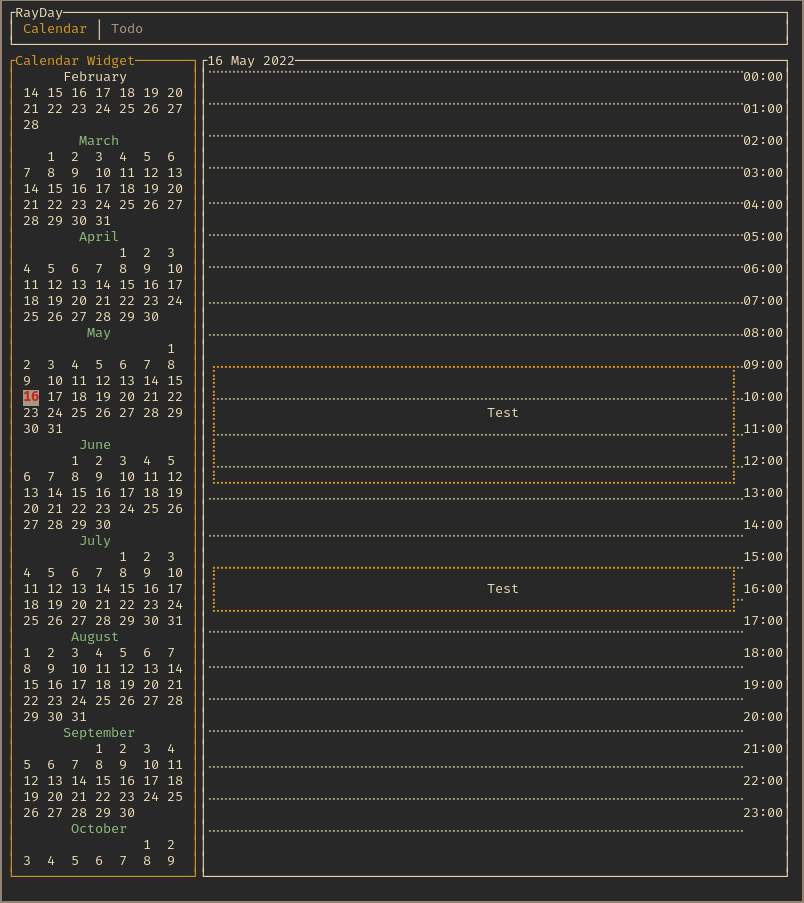
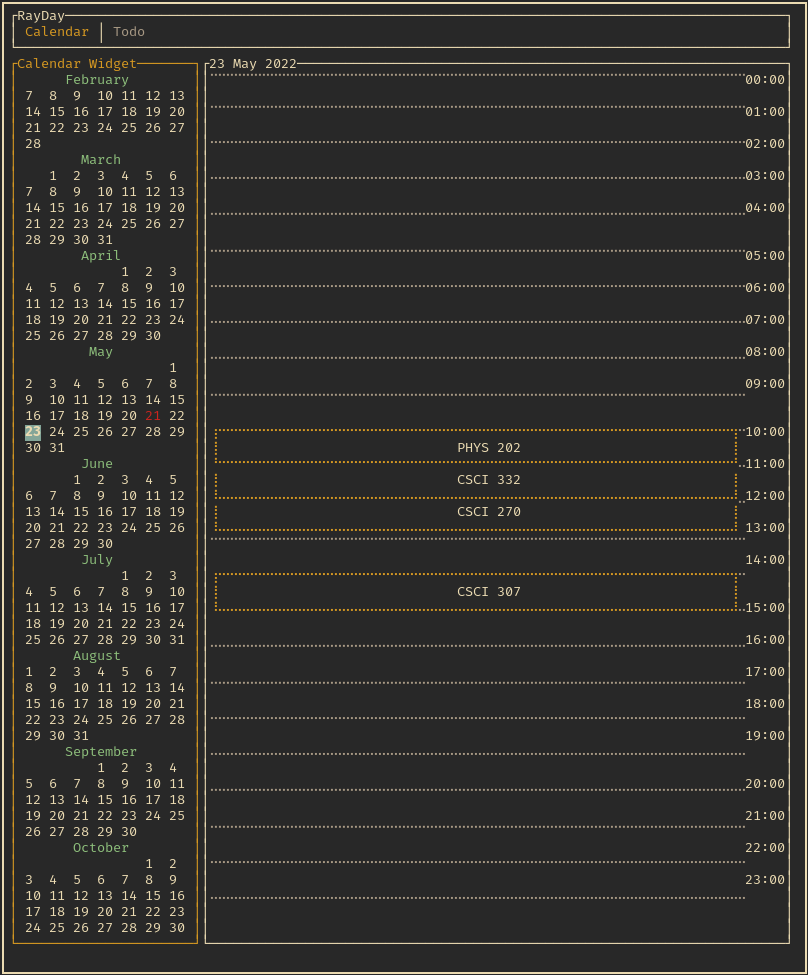
popup window to add event with time and description inputs

diff --git a/src/app.rs b/src/app.rs
@@ -52,7 +52,8 @@ impl<'a> TabsState<'a> {
 
 pub enum InputMode {
     Normal,
-    Adding,
+    AddingTime,
+    AddingDescription,
     Selecting,
 }
 
@@ -67,7 +68,9 @@ pub struct App<'a> {
     pub chosen_date: Date<Local>,
     pub chosen_event: EventState,
     pub add_event: bool,
-    pub input: String,
+    pub input_time: String,
+    pub input_description: String,
+    pub hint_text: String,
     pub input_mode: InputMode,
     pub first_date: Option<Date<Local>>,
     pub last_date: Option<Date<Local>>,
@@ -89,7 +92,9 @@ impl<'a> App<'a> {
             chosen_event: EventState::new(None),
             calendar,
             add_event: false,
-            input: String::new(),
+            input_time: String::new(),
+            input_description: String::new(),
+            hint_text: String::new(),
             input_mode: InputMode::Normal,
             first_date: None,
             last_date: None,
@@ -104,22 +109,6 @@ impl<'a> App<'a> {
         }
     }
 
-    pub fn on_down(&mut self) {
-        self.chosen_date = self.chosen_date.checked_add_signed(ChronoDuration::weeks(1)).unwrap();
-        if self.chosen_date.ge(&self.last_date.unwrap()) {
-            self.first_date = self.first_date.unwrap().checked_add_signed(ChronoDuration::weeks(1));
-            self.last_date = self.last_date.unwrap().checked_add_signed(ChronoDuration::weeks(1));
-        }
-    }
-
-    pub fn on_right(&mut self) {
-        self.chosen_date = self.chosen_date.checked_add_signed(ChronoDuration::days(1)).unwrap();
-        if self.chosen_date.ge(&self.last_date.unwrap()) {
-            self.first_date = self.first_date.unwrap().checked_add_signed(ChronoDuration::weeks(1));
-            self.last_date = self.last_date.unwrap().checked_add_signed(ChronoDuration::weeks(1));
-        }
-    }
-
     pub fn on_left(&mut self) {
         self.chosen_date = self.chosen_date.checked_sub_signed(ChronoDuration::days(1)).unwrap();
         if self.chosen_date.lt(&self.first_date.unwrap()) {
@@ -128,10 +117,28 @@ impl<'a> App<'a> {
         }
     }
 
+    pub fn on_down(&mut self) {
+        self.chosen_date = self.chosen_date.checked_add_signed(ChronoDuration::weeks(1)).unwrap();
+        if self.chosen_date.gt(&self.last_date.unwrap()) {
+            self.first_date = self.first_date.unwrap().checked_add_signed(ChronoDuration::weeks(1));
+            self.last_date = self.last_date.unwrap().checked_add_signed(ChronoDuration::weeks(1));
+        }
+    }
+
+    pub fn on_right(&mut self) {
+        self.chosen_date = self.chosen_date.checked_add_signed(ChronoDuration::days(1)).unwrap();
+        if self.chosen_date.gt(&self.last_date.unwrap()) {
+            self.first_date = self.first_date.unwrap().checked_add_signed(ChronoDuration::weeks(1));
+            self.last_date = self.last_date.unwrap().checked_add_signed(ChronoDuration::weeks(1));
+        }
+    }
+
     pub fn on_key(&mut self, c: char) {
         match c {
             'q' => {
                 self.should_quit = true;
+                //dbg!(&self.last_date);
+                //std::thread::sleep(Duration::from_secs(5));
             }
             'j' => {
                 self.on_down();
@@ -146,7 +153,7 @@ impl<'a> App<'a> {
                 self.on_right();
             }
             'a' => {
-                self.input_mode = InputMode::Adding;
+                self.input_mode = InputMode::AddingTime;
                 //self.on_add_item();
             }
             _ => {}
@@ -181,7 +188,7 @@ impl<'a> App<'a> {
     pub fn on_add_item(&mut self) {
         match self.tabs.index {
             _ => {
-                let s_e: Vec<&str> = self.input.split('-').collect();
+                let s_e: Vec<&str> = self.input_time.split('-').collect();
 
                 let s_h_m: Vec<&str> = s_e.get(0).unwrap().split(':').collect();
                 let e_h_m: Vec<&str> = s_e.get(1).unwrap().split(':').collect();
@@ -199,14 +206,15 @@ impl<'a> App<'a> {
                         )
                     )
                     .unwrap(),
-                    String::from("Test")
+                    self.input_description.clone()
                 );
                 self
                 .files
-                .add_event(event.clone())
+                .add_event(event)
                 .unwrap();
 
-                self.input = String::new();
+                self.input_time = String::new();
+                self.input_description = String::new();
             }
             1 => self.files.add_todo("todo", "TODO").unwrap(),
         }
@@ -270,21 +278,37 @@ fn run_app<B: Backend>(
                             _ => {}
                         }
                     },
-                    InputMode::Adding => match key.code {
+                    InputMode::AddingTime => match key.code {
                         KeyCode::Enter => {
                             //app.messages.push(app.input.drain(..).collect());
-                            app.on_add_item();
-                            app.input_mode = InputMode::Normal;
+                            //app.on_add_item();
+                            app.input_mode = InputMode::AddingDescription;
 
                         }
                         KeyCode::Char(c) => {
-                            app.input.push(c);
+                            app.input_time.push(c);
                         }
                         KeyCode::Backspace => {
-                            app.input.pop();
+                            app.input_time.pop();
                         }
                         KeyCode::Esc => {
                             app.input_mode = InputMode::Normal;
+                        }
+                        _ => {}
+                    },
+                    InputMode::AddingDescription => match key.code {
+                        KeyCode::Enter => {
+                            app.on_add_item();
+                            app.input_mode = InputMode::Normal;
+                        }
+                        KeyCode::Char(c) => {
+                            app.input_description.push(c);
+                        }
+                        KeyCode::Backspace => {
+                            app.input_description.pop();
+                        }
+                        KeyCode::Esc => {
+                            app.input_mode = InputMode::AddingTime;
                         }
                         _ => {}
                     },

diff --git a/src/widgets/popup.rs b/src/widgets/popup.rs
@@ -7,14 +7,15 @@ use tui::{
 use crate::app::InputMode;
 
 pub struct PopupAdd<'a> {
-    input: &'a String,
+    time: &'a String,
+    description: &'a String,
     input_mode: &'a InputMode,
     block: Option<Block<'a>>,
 }
 
 impl<'a> PopupAdd<'a> {
-    pub fn new(input: &'a String, input_mode: &'a InputMode) -> Self {
-        PopupAdd { input, input_mode, block: None }
+    pub fn new(time: &'a String, description: &'a String, input_mode: &'a InputMode) -> Self {
+        PopupAdd { time, description, input_mode, block: None }
     }
 
     pub fn block(mut self, block: Block<'a>) -> PopupAdd<'a> {
@@ -60,12 +61,25 @@ impl<'a> Widget for PopupAdd<'a> {
             None => area,
         };
 
-        let input = Paragraph::new(self.input.as_ref())
+        let layout = Layout::default()
+            .constraints([Constraint::Percentage(50), Constraint::Percentage(50)].as_ref())
+            .direction(Direction::Vertical)
+            .split(area);
+
+        let time_par = Paragraph::new(self.time.as_ref())
             .style(match self.input_mode {
-                InputMode::Adding => Style::default().fg(Color::Yellow),
+                InputMode::AddingTime => Style::default().fg(Color::Yellow),
                 _ => Style::default(),
             })
             .block(Block::default().borders(Borders::ALL).title("Add Event"));
-        input.render(area, buf);
+        time_par.render(layout[0], buf);
+
+        let description_par = Paragraph::new(self.description.as_ref())
+            .style(match self.input_mode {
+                InputMode::AddingDescription => Style::default().fg(Color::Yellow),
+                _ => Style::default(),
+            })
+            .block(Block::default().borders(Borders::ALL).title("Add Event"));
+        description_par.render(layout[1], buf);
     }
 }

diff --git a/src/ui.rs b/src/ui.rs
@@ -148,17 +148,29 @@ where
 
     f.render_stateful_widget(ev, chunks[1], &mut app.chosen_event);
 
-    let popup = PopupAdd::new(&app.input, &app.input_mode)
+    let popup = PopupAdd::new(&app.input_time, &app.input_description, &app.input_mode)
         .block(Block::default().title("Popup").borders(Borders::ALL).border_type(tui::widgets::BorderType::Thick));
 
     match app.input_mode {
-        InputMode::Adding => {
-            let area = centered_rect(60, 20, chunks[1]);
+        InputMode::AddingTime => {
+            let area = centered_rect(40, 11, chunks[1]);
             f.set_cursor(
                 // Put cursor past the end of the input text
-                area.x + app.input.len() as u16 + 1,
+                area.x + app.input_time.len() as u16 + 1,
                 // Move one line down, from the border to the input line
                 area.y + 1,
+            );
+            f.render_widget(Clear, area); //this clears out the background
+            f.render_widget(popup, area);
+            //f.render_widget(popup, area)
+        }
+        InputMode::AddingDescription => {
+            let area = centered_rect(40, 11, chunks[1]);
+            f.set_cursor(
+                // Put cursor past the end of the input text
+                area.x + app.input_description.len() as u16 + 1,
+                // Move one line down, from the border to the input line
+                area.y + 4,
             );
             f.render_widget(Clear, area); //this clears out the background
             f.render_widget(popup, area);

diff --git a/src/widgets/calendar.rs b/src/widgets/calendar.rs
@@ -83,11 +83,13 @@ impl<'a> CalendarWidget<'a> {
 
         let mut curr_date = first_date;
 
-        // i, j - new indicies for (month, day)
-        let mut curr_month = MonthWidget::new(curr_date.month()).style(Style::default().fg(Color::White));
+        let month_style = Style::default().fg(Color::LightCyan);
 
-        let mut h = 0;
-        while h < height - 2 {
+        // i, j - new indicies for (month, day)
+        let mut curr_month = MonthWidget::new(curr_date.month()).style(month_style);
+
+        let mut h = 1;
+        while h < height - 1 {
             // When new month starts store the month in `months` vec and clear `month`
             if curr_date.day() == 1 && !curr_month.days.is_empty() {
                 //let mut height = curr_month.days.len() / 7 + 1; // days + slot for month name
@@ -95,7 +97,7 @@ impl<'a> CalendarWidget<'a> {
                     curr_month.height += 1;
                 }
                 months.push(curr_month);
-                curr_month = MonthWidget::new(curr_date.month()).style(Style::default().fg(Color::LightCyan));
+                curr_month = MonthWidget::new(curr_date.month()).style(month_style);
                 h += 2;
             }
 

diff --git a/src/widgets/event_slot.rs b/src/widgets/event_slot.rs
@@ -52,7 +52,7 @@ impl<'a> Widget for EventSlot<'a> {
                     color: self.border_color,
                 });
                 ctx.layer();
-                ctx.print(area.width as f64 / 2.0, -start - duration / 2.0, Spans::from(vec![
+                ctx.print((area.width as f64 / 2.0) - self.event.desc().len() as f64 / 2.0, -start - duration / 2.0, Spans::from(vec![
                     Span::raw(self.event.desc()),
                 ]));
             });
